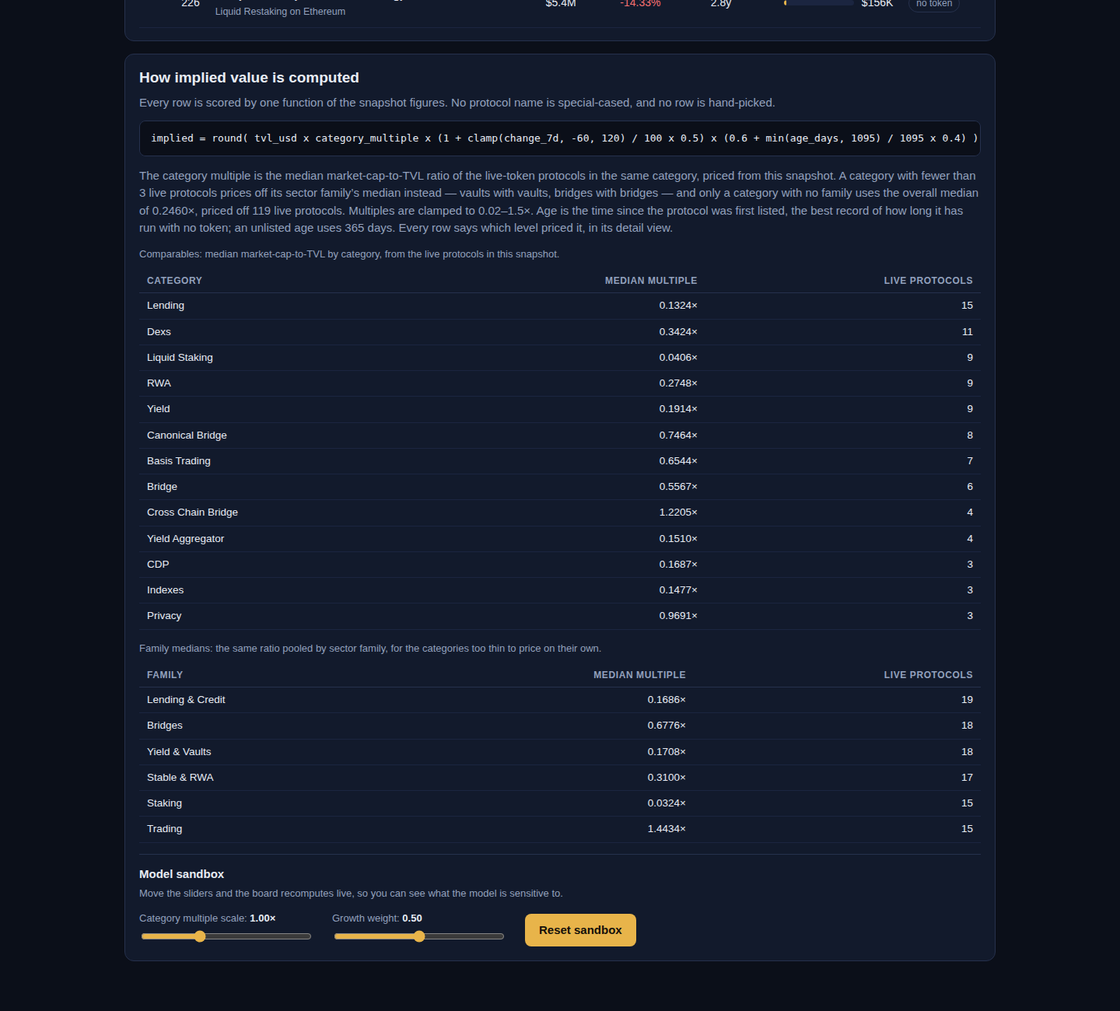
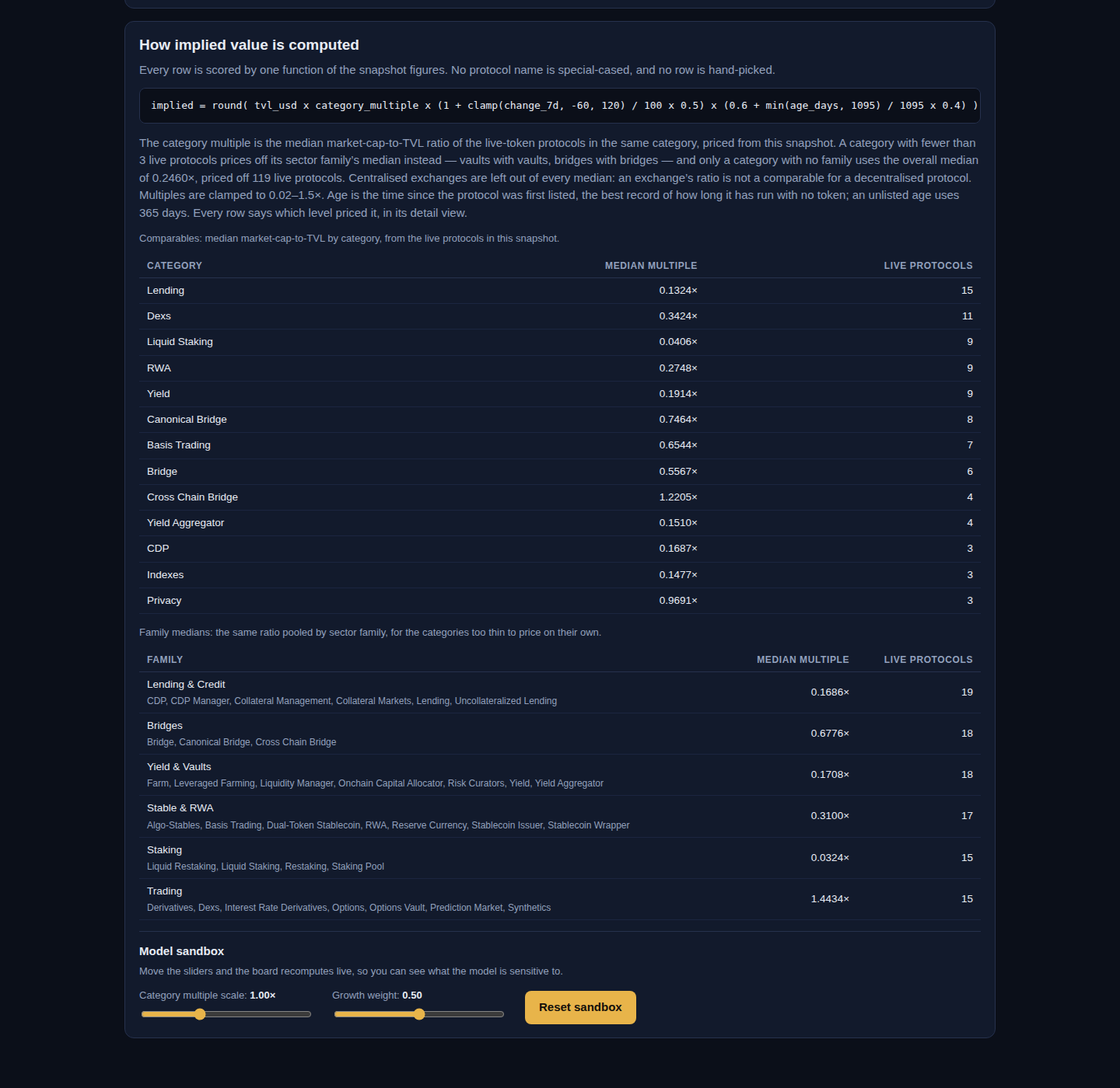
Audit round 2: fix lede, family taxonomy visible, farm branches for 8 categories

diff --git a/dashboard/app.js b/dashboard/app.js
@@ -80,9 +80,12 @@
     var c = (p.category || '').toLowerCase();
     var name = p.name;
     if (c.indexOf('lend') >= 0 || c.indexOf('cdp') >= 0 || c.indexOf('collateral') >= 0) return 'Supply $' + capital + ' of USDC to ' + name + ' on ' + chain + ' and leave it earning.';
+    // Indexes before Dexs: "indexes" contains "dex", and an index is bought, not pooled.
+    if (c.indexOf('indexes') >= 0) return 'Buy $' + capital + ' of the ' + name + ' index on ' + chain + ' and hold it.';
     if (c.indexOf('dex') >= 0) return 'Add $' + capital + ' of liquidity to the busiest ' + name + ' pool on ' + chain + ' and keep it in range.';
-    if (c.indexOf('yield aggregator') >= 0 || c.indexOf('yield') >= 0) return 'Deposit $' + capital + ' into the highest-TVL ' + name + ' vault on ' + chain + ' and hold the receipt.';
+    if (c.indexOf('yield aggregator') >= 0 || c.indexOf('yield') >= 0 || c === 'farm') return 'Deposit $' + capital + ' into the highest-TVL ' + name + ' vault on ' + chain + ' and hold the receipt.';
     if (c.indexOf('leveraged farm') >= 0) return 'Open a $' + capital + ' leveraged position on ' + name + ' and keep the health factor above 1.5.';
+    if (c.indexOf('liquidity manager') >= 0) return 'Deposit $' + capital + ' into a ' + name + '-managed pool on ' + chain + ' and let it rebalance.';
     if (c.indexOf('bridge') >= 0) return 'Bridge $' + capital + ' of USDC to ' + chain + ' through ' + name + ' and use the funds inside its app.';
     if (c.indexOf('liquid staking') >= 0 || c.indexOf('restak') >= 0 || c.indexOf('staking') >= 0) return "Stake $" + capital + " of the chain's staking asset through " + name + ' and hold the receipt token.';
     if (c.indexOf('perpetual') >= 0 || c.indexOf('derivative') >= 0) return 'Deposit $' + capital + ' of USDC as margin on ' + name + ' and open one small hedged position.';
@@ -92,6 +95,11 @@
     if (c.indexOf('rwa') >= 0) return "Mint $" + capital + " of the protocol's yield-bearing asset on " + chain + ' and hold it.';
     if (c.indexOf('insurance') >= 0) return 'Buy $' + capital + ' of cover from ' + name + ' on ' + chain + ' and keep the policy active.';
     if (c.indexOf('basis') >= 0) return 'Deposit $' + capital + ' into the ' + name + ' basis strategy on ' + chain + ' and hold the position.';
+    if (c.indexOf('btc') >= 0) return 'Mint $' + capital + ' of the BTC-backed asset through ' + name + ' on ' + chain + ' and hold it.';
+    if (c.indexOf('payments') >= 0) return 'Send $' + capital + ' through ' + name + ' on ' + chain + ' and keep the channel open.';
+    if (c.indexOf('governance') >= 0) return 'Deposit $' + capital + ' into a ' + name + ' incentives pool on ' + chain + '.';
+    if (c.indexOf('card') >= 0) return 'Load $' + capital + ' onto a ' + name + ' card on ' + chain + ' and use it for one purchase.';
+    if (c === 'chain') return 'Bridge $' + capital + ' of USDC to ' + name + ' and use it inside its own apps.';
     return 'Deposit $' + capital + ' of USDC into ' + name + ' on ' + chain + ' and keep the position open.';
   }
   function secondActionFor(p, capital, chain) {
@@ -99,8 +107,10 @@
     var name = p.name;
     var small = Math.max(10, Math.round(capital / 5));
     if (c.indexOf('lend') >= 0 || c.indexOf('cdp') >= 0 || c.indexOf('collateral') >= 0) return 'Borrow about a third of what you supplied from ' + name + ', then repay half of it the following week.';
+    if (c.indexOf('indexes') >= 0) return 'Add $' + small + ' to the index position when it rebalances.';
     if (c.indexOf('dex') >= 0) return 'Swap $' + small + ' through ' + name + ' on ' + chain + ' once a week instead of holding still.';
-    if (c.indexOf('yield') >= 0) return 'Move a quarter of the vault position into a second ' + name + ' vault on another chain it supports.';
+    if (c.indexOf('yield') >= 0 || c === 'farm') return 'Move a quarter of the vault position into a second ' + name + ' vault on another chain it supports.';
+    if (c.indexOf('liquidity manager') >= 0) return 'Move $' + small + ' into a second ' + name + '-managed pool on another chain it supports.';
     if (c.indexOf('bridge') >= 0) return 'Bridge $' + small + ' back through ' + name + ' so both directions are on record.';
     if (c.indexOf('liquid staking') >= 0 || c.indexOf('restak') >= 0 || c.indexOf('staking') >= 0) return "Deposit the staking receipt into " + name + "'s own yield option, or restake the rewards it pays.";
     if (c.indexOf('perpetual') >= 0 || c.indexOf('derivative') >= 0) return 'Close and reopen the hedge once so the position shows fresh activity.';
@@ -110,6 +120,11 @@
     if (c.indexOf('rwa') >= 0) return 'Claim the yield the asset pays and re-mint with it, keeping one receipt.';
     if (c.indexOf('insurance') >= 0) return 'Renew or extend the cover by one period before the first one lapses.';
     if (c.indexOf('basis') >= 0) return 'Check the funding rate weekly and add $' + small + ' when it turns positive.';
+    if (c.indexOf('btc') >= 0) return 'Claim the yield the BTC-backed asset pays and re-mint with it, keeping one receipt.';
+    if (c.indexOf('payments') >= 0) return 'Send a second, smaller payment through ' + name + ' the following week.';
+    if (c.indexOf('governance') >= 0) return 'Vote with the position once, then add $' + small + ' to the incentives pool.';
+    if (c.indexOf('card') >= 0) return 'Make a second purchase with the card the following week.';
+    if (c === 'chain') return 'Use a second app on ' + name + ' with $' + small + '.';
     return 'Return to ' + name + ' once a week and repeat the deposit with $' + small + ' more.';
   }
   function stepText(step) {
@@ -123,9 +138,11 @@
   function riskFor(p) {
     var c = (p.category || '').toLowerCase();
     if (c.indexOf('lend') >= 0 || c.indexOf('cdp') >= 0 || c.indexOf('collateral') >= 0) return 'a supplied asset can be liquidated if the collateral behind it falls';
+    if (c.indexOf('indexes') >= 0) return 'an index falls with every asset it holds';
     if (c.indexOf('dex') >= 0) return 'a liquidity position loses value when the two sides move apart';
-    if (c.indexOf('yield') >= 0) return 'yields compress as more capital chases the same strategy';
+    if (c.indexOf('yield') >= 0 || c === 'farm') return 'yields compress as more capital chases the same strategy';
     if (c.indexOf('leveraged farm') >= 0) return 'leverage multiplies losses as fast as gains, and the position can be liquidated';
+    if (c.indexOf('liquidity manager') >= 0) return 'a managed position still loses value when its assets move apart';
     if (c.indexOf('bridge') >= 0) return 'bridged funds depend on the bridge staying solvent and unhacked';
     if (c.indexOf('liquid staking') >= 0 || c.indexOf('restak') >= 0 || c.indexOf('staking') >= 0) return 'the staking receipt can trade below the staked asset while exits queue';
     if (c.indexOf('perpetual') >= 0 || c.indexOf('derivative') >= 0) return 'a leveraged position can be liquidated by one sharp move';
@@ -135,29 +152,44 @@
     if (c.indexOf('rwa') >= 0) return 'real-world backing depends on the issuer staying solvent and honest';
     if (c.indexOf('insurance') >= 0) return 'cover pays only for the events the policy names, and claims can be disputed';
     if (c.indexOf('basis') >= 0) return 'the funding rate can turn negative and the strategy pays instead of earning';
+    if (c.indexOf('btc') >= 0) return 'a BTC-backed asset depends on its custodian or bridge staying solvent';
+    if (c.indexOf('payments') >= 0) return 'a payment channel locks funds until it closes';
+    if (c.indexOf('governance') >= 0) return 'incentives dry up when the bribes stop';
+    if (c.indexOf('card') >= 0) return 'a card issuer can freeze funds or change its fees';
+    if (c === 'chain') return "a new chain's apps and bridges carry smart-contract risk";
     return 'an airdrop is never guaranteed, and the position can lose value while you wait';
   }
   function holdFor(p, hold) {
     var c = (p.category || '').toLowerCase();
     if (c.indexOf('lend') >= 0 || c.indexOf('cdp') >= 0 || c.indexOf('collateral') >= 0) return 'Keep the supplied assets in place for at least ' + hold + ' days so the supply accrues across more than one snapshot.';
+    if (c.indexOf('indexes') >= 0) return 'Hold the index for at least ' + hold + ' days so the position is counted in more than one snapshot.';
     if (c.indexOf('dex') >= 0) return 'Keep the liquidity in range for at least ' + hold + ' days so the position earns fees across more than one snapshot.';
-    if (c.indexOf('yield') >= 0 || c.indexOf('curator') >= 0 || c.indexOf('allocator') >= 0 || c.indexOf('onchain capital') >= 0) return 'Keep the vault shares for at least ' + hold + ' days so the position is counted in more than one snapshot.';
+    if (c.indexOf('yield') >= 0 || c.indexOf('curator') >= 0 || c.indexOf('allocator') >= 0 || c.indexOf('onchain capital') >= 0 || c === 'farm') return 'Keep the vault shares for at least ' + hold + ' days so the position is counted in more than one snapshot.';
+    if (c.indexOf('liquidity manager') >= 0) return 'Keep the managed position for at least ' + hold + ' days so it earns fees across more than one snapshot.';
     if (c.indexOf('bridge') >= 0) return 'Keep the bridged funds working inside the app for at least ' + hold + ' days so the activity is counted in more than one snapshot.';
     if (c.indexOf('liquid staking') >= 0 || c.indexOf('restak') >= 0 || c.indexOf('staking') >= 0) return 'Keep the stake locked for at least ' + hold + ' days so the position is counted in more than one snapshot.';
     if (c.indexOf('perpetual') >= 0 || c.indexOf('derivative') >= 0) return 'Keep the margin deposited for at least ' + hold + ' days so the account shows activity in more than one snapshot.';
+    if (c.indexOf('btc') >= 0) return 'Hold the BTC-backed asset for at least ' + hold + ' days so the position is counted in more than one snapshot.';
+    if (c.indexOf('payments') >= 0) return 'Keep the channel open for at least ' + hold + ' days so the activity is counted in more than one snapshot.';
+    if (c === 'chain') return 'Keep the funds on ' + p.name + ' for at least ' + hold + ' days so the activity is counted in more than one snapshot.';
     return 'Keep the position open for at least ' + hold + ' days so the activity is counted in more than one snapshot.';
   }
   function weeklyFor(p) {
     var c = (p.category || '').toLowerCase();
     var name = p.name;
     if (c.indexOf('lend') >= 0 || c.indexOf('cdp') >= 0 || c.indexOf('collateral') >= 0) return 'Once a week, adjust the supplied amount a little, or claim the interest the position earned.';
+    if (c.indexOf('indexes') >= 0) return "Once a week, check the index's holdings and top up a small amount.";
     if (c.indexOf('dex') >= 0) return 'Once a week, swap a small amount through the pool, or rebalance the range if the price moved.';
-    if (c.indexOf('yield') >= 0 || c.indexOf('curator') >= 0 || c.indexOf('allocator') >= 0 || c.indexOf('onchain capital') >= 0) return "Once a week, check the vault's yield and top the position up with a small amount.";
+    if (c.indexOf('yield') >= 0 || c.indexOf('curator') >= 0 || c.indexOf('allocator') >= 0 || c.indexOf('onchain capital') >= 0 || c === 'farm') return "Once a week, check the vault's yield and top the position up with a small amount.";
+    if (c.indexOf('liquidity manager') >= 0) return "Once a week, check the managed pool's performance and top up a small amount.";
     if (c.indexOf('bridge') >= 0) return 'Once a week, bridge a small amount back through ' + name + ', or use the funds inside its app.';
     if (c.indexOf('liquid staking') >= 0 || c.indexOf('restak') >= 0 || c.indexOf('staking') >= 0) return 'Once a week, restake the rewards the stake pays instead of letting them sit idle.';
     if (c.indexOf('perpetual') >= 0 || c.indexOf('derivative') >= 0) return 'Once a week, check the funding rate and adjust the hedge if it moved.';
     if (c.indexOf('prediction') >= 0) return 'Once a week, review the open markets and settle any that closed.';
     if (c.indexOf('rwa') >= 0) return 'Once a week, check the yield the asset paid and claim it while the position is open.';
+    if (c.indexOf('btc') >= 0) return 'Once a week, check the backing behind the BTC-backed asset.';
+    if (c.indexOf('payments') >= 0) return 'Once a week, send one small payment through ' + name + '.';
+    if (c === 'chain') return 'Once a week, use one app on ' + name + '.';
     return 'Once a week, make one small qualifying action on the protocol, such as a deposit, a swap, a vote or a claim.';
   }
   function claimFor(p) {
@@ -242,7 +274,7 @@
     return el('section', { class: 'lede' },
       el('div', null,
         el('h1', null, 'Every pre-token protocol, priced off ', el('em', { text: 'live comparables' })),
-        el('p', { text: 'The watchlist is the floor: every protocol with at least $' + Math.round(DATA.floor_usd / 1e6) + 'M of TVL and no token on record. The early radar adds ' + DATA.early_size + ' pre-token protocols below that floor. Each row is priced at its own category\u2019s median market-cap-to-TVL ratio, taken from the live-token protocols in the same snapshot. Implied value is a model, not a promise.' })
+        el('p', { text: 'The watchlist is the floor: every protocol with at least $' + Math.round(DATA.floor_usd / 1e6) + 'M of TVL and no token on record. The early radar adds ' + DATA.early_size + ' pre-token protocols below that floor. Each row is priced off the live market\u2019s own comparables \u2014 its category\u2019s median market-cap-to-TVL ratio, or its sector family\u2019s when the category is too thin \u2014 taken from the live-token protocols in the same snapshot. Implied value is a model, not a promise.' })
       ),
       el('div', { class: 'facts' },
         el('div', { class: 'fact' }, el('span', { text: 'Watchlist covered' }), el('b', { text: DATA.watchlist_size + ' / ' + DATA.watchlist_size })),
@@ -382,7 +414,7 @@
       el('div', { class: 'formula' },
         'implied = round( tvl_usd x category_multiple x (1 + clamp(change_7d, ' + m.growth_floor + ', ' + m.growth_cap + ') / 100 x ' + m.growth_weight + ') x (' + m.maturity_floor + ' + min(age_days, ' + m.maturity_days + ') / ' + m.maturity_days + ' x ' + m.maturity_range + ') )'
       ),
-      el('p', { class: 'sub', text: 'The category multiple is the median market-cap-to-TVL ratio of the live-token protocols in the same category, priced from this snapshot. A category with fewer than ' + m.min_category_n + ' live protocols prices off its sector family\u2019s median instead \u2014 vaults with vaults, bridges with bridges \u2014 and only a category with no family uses the overall median of ' + DATA.overall_median_multiple.toFixed(4) + '\u00d7, priced off ' + DATA.live_comparables_n + ' live protocols. Multiples are clamped to ' + m.multiple_floor + '\u2013' + m.multiple_cap + '\u00d7. Age is the time since the protocol was first listed, the best record of how long it has run with no token; an unlisted age uses ' + m.unknown_age_days + ' days. Every row says which level priced it, in its detail view.' }),
+      el('p', { class: 'sub', text: 'The category multiple is the median market-cap-to-TVL ratio of the live-token protocols in the same category, priced from this snapshot. A category with fewer than ' + m.min_category_n + ' live protocols prices off its sector family\u2019s median instead \u2014 vaults with vaults, bridges with bridges \u2014 and only a category with no family uses the overall median of ' + DATA.overall_median_multiple.toFixed(4) + '\u00d7, priced off ' + DATA.live_comparables_n + ' live protocols. Centralised exchanges are left out of every median: an exchange\u2019s ratio is not a comparable for a decentralised protocol. Multiples are clamped to ' + m.multiple_floor + '\u2013' + m.multiple_cap + '\u00d7. Age is the time since the protocol was first listed, the best record of how long it has run with no token; an unlisted age uses ' + m.unknown_age_days + ' days. Every row says which level priced it, in its detail view.' }),
       el('table', { class: 'comps' },
         el('caption', { class: 'sub', text: 'Comparables: median market-cap-to-TVL by category, from the live protocols in this snapshot.' }),
         el('thead', null, el('tr', null, el('th', { scope: 'col', text: 'Category' }), el('th', { scope: 'col', class: 'num', text: 'Median multiple' }), el('th', { scope: 'col', class: 'num', text: 'Live protocols' }))),
@@ -392,8 +424,9 @@
         el('caption', { class: 'sub', text: 'Family medians: the same ratio pooled by sector family, for the categories too thin to price on their own.' }),
         el('thead', null, el('tr', null, el('th', { scope: 'col', text: 'Family' }), el('th', { scope: 'col', class: 'num', text: 'Median multiple' }), el('th', { scope: 'col', class: 'num', text: 'Live protocols' }))),
         el('tbody', null, DATA.families.map(function (c) {
+          var members = (DATA.family_members[c.category] || []).join(', ');
           return el('tr', null,
-            el('td', { text: c.category }),
+            el('td', null, el('span', { text: c.category }), members ? el('span', { class: 'members', text: members }) : null),
             el('td', { class: 'num', text: c.median_multiple.toFixed(4) + '\u00d7' }),
             el('td', { class: 'num', text: String(c.n) })
           );

diff --git a/lib/model.ts b/lib/model.ts
@@ -230,6 +230,8 @@ export interface RadarData {
   comparables: Comparable[];
   /** The sector-family medians, for the categories too thin to price on their own. */
   families: Comparable[];
+  /** Which categories each sector family pools, so the taxonomy is visible in the dashboard. */
+  family_members: Record<string, string[]>;
   /** How many live-token protocols the overall median (and the family pools) are priced off. */
   live_comparables_n: number;
   rows: RadarRow[];
@@ -473,9 +475,12 @@ function actionFor(p: SnapshotProtocol, capital: number, chain: string): string 
   const c = (p.category ?? '').toLowerCase();
   const name = p.name;
   if (c.includes('lend') || c.includes('cdp') || c.includes('collateral')) return `Supply $${capital} of USDC to ${name} on ${chain} and leave it earning.`;
+  // Indexes before Dexs: "indexes" contains "dex", and an index is bought, not pooled.
+  if (c.includes('indexes')) return `Buy $${capital} of the ${name} index on ${chain} and hold it.`;
   if (c.includes('dex')) return `Add $${capital} of liquidity to the busiest ${name} pool on ${chain} and keep it in range.`;
-  if (c.includes('yield aggregator') || c.includes('yield')) return `Deposit $${capital} into the highest-TVL ${name} vault on ${chain} and hold the receipt.`;
+  if (c.includes('yield aggregator') || c.includes('yield') || c === 'farm') return `Deposit $${capital} into the highest-TVL ${name} vault on ${chain} and hold the receipt.`;
   if (c.includes('leveraged farm')) return `Open a $${capital} leveraged position on ${name} and keep the health factor above 1.5.`;
+  if (c.includes('liquidity manager')) return `Deposit $${capital} into a ${name}-managed pool on ${chain} and let it rebalance.`;
   if (c.includes('bridge')) return `Bridge $${capital} of USDC to ${chain} through ${name} and use the funds inside its app.`;
   if (c.includes('liquid staking') || c.includes('restak') || c.includes('staking')) return `Stake $${capital} of the chain's staking asset through ${name} and hold the receipt token.`;
   if (c.includes('perpetual') || c.includes('derivative')) return `Deposit $${capital} of USDC as margin on ${name} and open one small hedged position.`;
@@ -485,6 +490,11 @@ function actionFor(p: SnapshotProtocol, capital: number, chain: string): string 
   if (c.includes('rwa')) return `Mint $${capital} of the protocol's yield-bearing asset on ${chain} and hold it.`;
   if (c.includes('insurance')) return `Buy $${capital} of cover from ${name} on ${chain} and keep the policy active.`;
   if (c.includes('basis')) return `Deposit $${capital} into the ${name} basis strategy on ${chain} and hold the position.`;
+  if (c.includes('btc')) return `Mint $${capital} of the BTC-backed asset through ${name} on ${chain} and hold it.`;
+  if (c.includes('payments')) return `Send $${capital} through ${name} on ${chain} and keep the channel open.`;
+  if (c.includes('governance')) return `Deposit $${capital} into a ${name} incentives pool on ${chain}.`;
+  if (c.includes('card')) return `Load $${capital} onto a ${name} card on ${chain} and use it for one purchase.`;
+  if (c === 'chain') return `Bridge $${capital} of USDC to ${name} and use it inside its own apps.`;
   return `Deposit $${capital} of USDC into ${name} on ${chain} and keep the position open.`;
 }
 
@@ -493,8 +503,10 @@ function secondActionFor(p: SnapshotProtocol, capital: number, chain: string): s
   const c = (p.category ?? '').toLowerCase();
   const name = p.name;
   if (c.includes('lend') || c.includes('cdp') || c.includes('collateral')) return `Borrow about a third of what you supplied from ${name}, then repay half of it the following week.`;
+  if (c.includes('indexes')) return `Add $${Math.max(10, Math.round(capital / 5))} to the index position when it rebalances.`;
   if (c.includes('dex')) return `Swap $${Math.max(10, Math.round(capital / 5))} through ${name} on ${chain} once a week instead of holding still.`;
-  if (c.includes('yield')) return `Move a quarter of the vault position into a second ${name} vault on another chain it supports.`;
+  if (c.includes('yield') || c === 'farm') return `Move a quarter of the vault position into a second ${name} vault on another chain it supports.`;
+  if (c.includes('liquidity manager')) return `Move $${Math.max(10, Math.round(capital / 5))} into a second ${name}-managed pool on another chain it supports.`;
   if (c.includes('bridge')) return `Bridge $${Math.max(10, Math.round(capital / 5))} back through ${name} so both directions are on record.`;
   if (c.includes('liquid staking') || c.includes('restak') || c.includes('staking')) return `Deposit the staking receipt into ${name}'s own yield option, or restake the rewards it pays.`;
   if (c.includes('perpetual') || c.includes('derivative')) return `Close and reopen the hedge once so the position shows fresh activity.`;
@@ -504,6 +516,11 @@ function secondActionFor(p: SnapshotProtocol, capital: number, chain: string): s
   if (c.includes('rwa')) return `Claim the yield the asset pays and re-mint with it, keeping one receipt.`;
   if (c.includes('insurance')) return `Renew or extend the cover by one period before the first one lapses.`;
   if (c.includes('basis')) return `Check the funding rate weekly and add $${Math.max(10, Math.round(capital / 5))} when it turns positive.`;
+  if (c.includes('btc')) return `Claim the yield the BTC-backed asset pays and re-mint with it, keeping one receipt.`;
+  if (c.includes('payments')) return `Send a second, smaller payment through ${name} the following week.`;
+  if (c.includes('governance')) return `Vote with the position once, then add $${Math.max(10, Math.round(capital / 5))} to the incentives pool.`;
+  if (c.includes('card')) return `Make a second purchase with the card the following week.`;
+  if (c === 'chain') return `Use a second app on ${name} with $${Math.max(10, Math.round(capital / 5))}.`;
   return `Return to ${name} once a week and repeat the deposit with $${Math.max(10, Math.round(capital / 5))} more.`;
 }
 
@@ -511,11 +528,16 @@ function secondActionFor(p: SnapshotProtocol, capital: number, chain: string): s
 function holdFor(p: SnapshotProtocol, hold: number): string {
   const c = (p.category ?? '').toLowerCase();
   if (c.includes('lend') || c.includes('cdp') || c.includes('collateral')) return `Keep the supplied assets in place for at least ${hold} days so the supply accrues across more than one snapshot.`;
+  if (c.includes('indexes')) return `Hold the index for at least ${hold} days so the position is counted in more than one snapshot.`;
   if (c.includes('dex')) return `Keep the liquidity in range for at least ${hold} days so the position earns fees across more than one snapshot.`;
-  if (c.includes('yield') || c.includes('curator') || c.includes('allocator') || c.includes('onchain capital')) return `Keep the vault shares for at least ${hold} days so the position is counted in more than one snapshot.`;
+  if (c.includes('yield') || c.includes('curator') || c.includes('allocator') || c.includes('onchain capital') || c === 'farm') return `Keep the vault shares for at least ${hold} days so the position is counted in more than one snapshot.`;
+  if (c.includes('liquidity manager')) return `Keep the managed position for at least ${hold} days so it earns fees across more than one snapshot.`;
   if (c.includes('bridge')) return `Keep the bridged funds working inside the app for at least ${hold} days so the activity is counted in more than one snapshot.`;
   if (c.includes('liquid staking') || c.includes('restak') || c.includes('staking')) return `Keep the stake locked for at least ${hold} days so the position is counted in more than one snapshot.`;
   if (c.includes('perpetual') || c.includes('derivative')) return `Keep the margin deposited for at least ${hold} days so the account shows activity in more than one snapshot.`;
+  if (c.includes('btc')) return `Hold the BTC-backed asset for at least ${hold} days so the position is counted in more than one snapshot.`;
+  if (c.includes('payments')) return `Keep the channel open for at least ${hold} days so the activity is counted in more than one snapshot.`;
+  if (c === 'chain') return `Keep the funds on ${p.name} for at least ${hold} days so the activity is counted in more than one snapshot.`;
   return `Keep the position open for at least ${hold} days so the activity is counted in more than one snapshot.`;
 }
 
@@ -524,13 +546,18 @@ function weeklyFor(p: SnapshotProtocol): string {
   const c = (p.category ?? '').toLowerCase();
   const name = p.name;
   if (c.includes('lend') || c.includes('cdp') || c.includes('collateral')) return `Once a week, adjust the supplied amount a little, or claim the interest the position earned.`;
+  if (c.includes('indexes')) return `Once a week, check the index's holdings and top up a small amount.`;
   if (c.includes('dex')) return `Once a week, swap a small amount through the pool, or rebalance the range if the price moved.`;
-  if (c.includes('yield') || c.includes('curator') || c.includes('allocator') || c.includes('onchain capital')) return `Once a week, check the vault's yield and top the position up with a small amount.`;
+  if (c.includes('yield') || c.includes('curator') || c.includes('allocator') || c.includes('onchain capital') || c === 'farm') return `Once a week, check the vault's yield and top the position up with a small amount.`;
+  if (c.includes('liquidity manager')) return `Once a week, check the managed pool's performance and top up a small amount.`;
   if (c.includes('bridge')) return `Once a week, bridge a small amount back through ${name}, or use the funds inside its app.`;
   if (c.includes('liquid staking') || c.includes('restak') || c.includes('staking')) return `Once a week, restake the rewards the stake pays instead of letting them sit idle.`;
   if (c.includes('perpetual') || c.includes('derivative')) return `Once a week, check the funding rate and adjust the hedge if it moved.`;
   if (c.includes('prediction')) return `Once a week, review the open markets and settle any that closed.`;
   if (c.includes('rwa')) return `Once a week, check the yield the asset paid and claim it while the position is open.`;
+  if (c.includes('btc')) return `Once a week, check the backing behind the BTC-backed asset.`;
+  if (c.includes('payments')) return `Once a week, send one small payment through ${name}.`;
+  if (c === 'chain') return `Once a week, use one app on ${name}.`;
   return `Once a week, make one small qualifying action on the protocol, such as a deposit, a swap, a vote or a claim.`;
 }
 
@@ -545,9 +572,11 @@ function claimFor(p: SnapshotProtocol): string {
 function riskFor(p: SnapshotProtocol): string {
   const c = (p.category ?? '').toLowerCase();
   if (c.includes('lend') || c.includes('cdp') || c.includes('collateral')) return 'a supplied asset can be liquidated if the collateral behind it falls';
+  if (c.includes('indexes')) return 'an index falls with every asset it holds';
   if (c.includes('dex')) return 'a liquidity position loses value when the two sides move apart';
-  if (c.includes('yield')) return 'yields compress as more capital chases the same strategy';
+  if (c.includes('yield') || c === 'farm') return 'yields compress as more capital chases the same strategy';
   if (c.includes('leveraged farm')) return 'leverage multiplies losses as fast as gains, and the position can be liquidated';
+  if (c.includes('liquidity manager')) return 'a managed position still loses value when its assets move apart';
   if (c.includes('bridge')) return 'bridged funds depend on the bridge staying solvent and unhacked';
   if (c.includes('liquid staking') || c.includes('restak') || c.includes('staking')) return 'the staking receipt can trade below the staked asset while exits queue';
   if (c.includes('perpetual') || c.includes('derivative')) return 'a leveraged position can be liquidated by one sharp move';
@@ -557,6 +586,11 @@ function riskFor(p: SnapshotProtocol): string {
   if (c.includes('rwa')) return 'real-world backing depends on the issuer staying solvent and honest';
   if (c.includes('insurance')) return 'cover pays only for the events the policy names, and claims can be disputed';
   if (c.includes('basis')) return 'the funding rate can turn negative and the strategy pays instead of earning';
+  if (c.includes('btc')) return 'a BTC-backed asset depends on its custodian or bridge staying solvent';
+  if (c.includes('payments')) return 'a payment channel locks funds until it closes';
+  if (c.includes('governance')) return 'incentives dry up when the bribes stop';
+  if (c.includes('card')) return 'a card issuer can freeze funds or change its fees';
+  if (c === 'chain') return "a new chain's apps and bridges carry smart-contract risk";
   return 'an airdrop is never guaranteed, and the position can lose value while you wait';
 }
 
@@ -654,6 +688,14 @@ export function buildRadar(snapshot: Snapshot, model: ModelConstants = MODEL): {
   const live = liveRows(snapshot);
   const comparables = buildComparables(snapshot, model);
   const early = board.filter((r) => !snapshot.watchlist.includes(r.slug)).length;
+  // The family taxonomy, inverted: each family lists the categories it pools.
+  const familyMembers: Record<string, string[]> = {};
+  for (const [category, family] of Object.entries(FAMILY_OF)) {
+    const list = familyMembers[family] ?? [];
+    list.push(category);
+    familyMembers[family] = list;
+  }
+  for (const list of Object.values(familyMembers)) list.sort();
   const radar: RadarData = {
     as_of: snapshot.as_of,
     source: snapshot.source,
@@ -667,6 +709,7 @@ export function buildRadar(snapshot: Snapshot, model: ModelConstants = MODEL): {
     overall_median_multiple: round4(comparables.overall),
     comparables: comparables.table,
     families: comparables.familyTable,
+    family_members: familyMembers,
     live_comparables_n: comparables.live_n,
     rows: board.map(radarRow),
     live,

diff --git a/dashboard/app.css b/dashboard/app.css
@@ -93,6 +93,7 @@ td.num, th.num { text-align: right; }
 .comps { width: 100%; font-size: 13.5px; margin-bottom: 14px; }
 .comps td, .comps th { padding: 6px 10px; }
 .comps td.num { text-align: right; }
+.members { display: block; color: var(--muted); font-size: 12px; margin-top: 2px; }
 .sandbox { border-top: 1px solid var(--line); padding-top: 14px; }
 .sandbox h3 { margin: 0 0 4px; font-size: 15px; }
 .sandbox p { font-size: 13px; }
